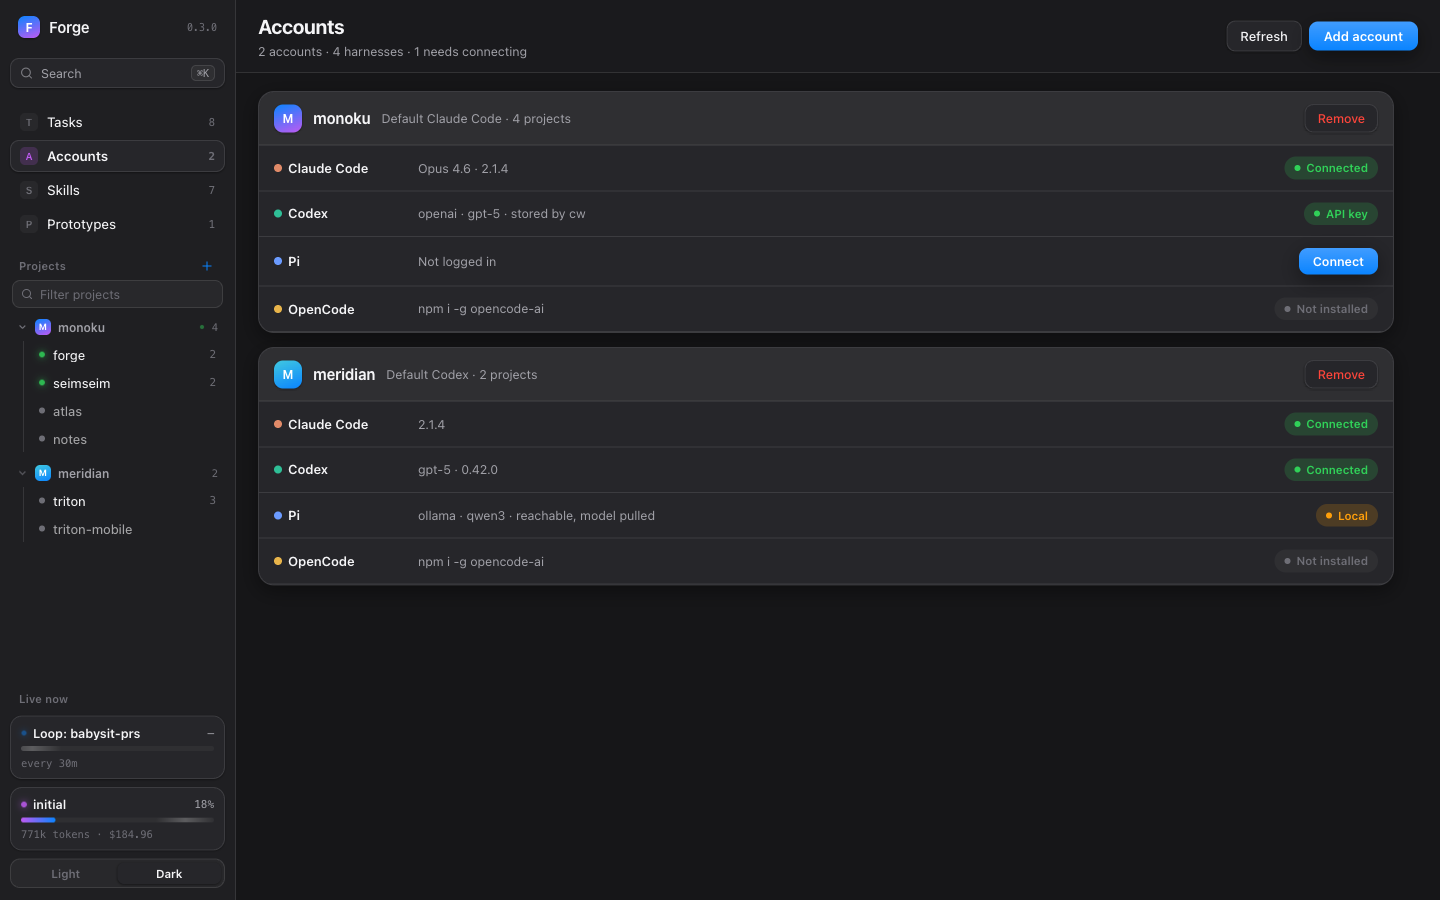
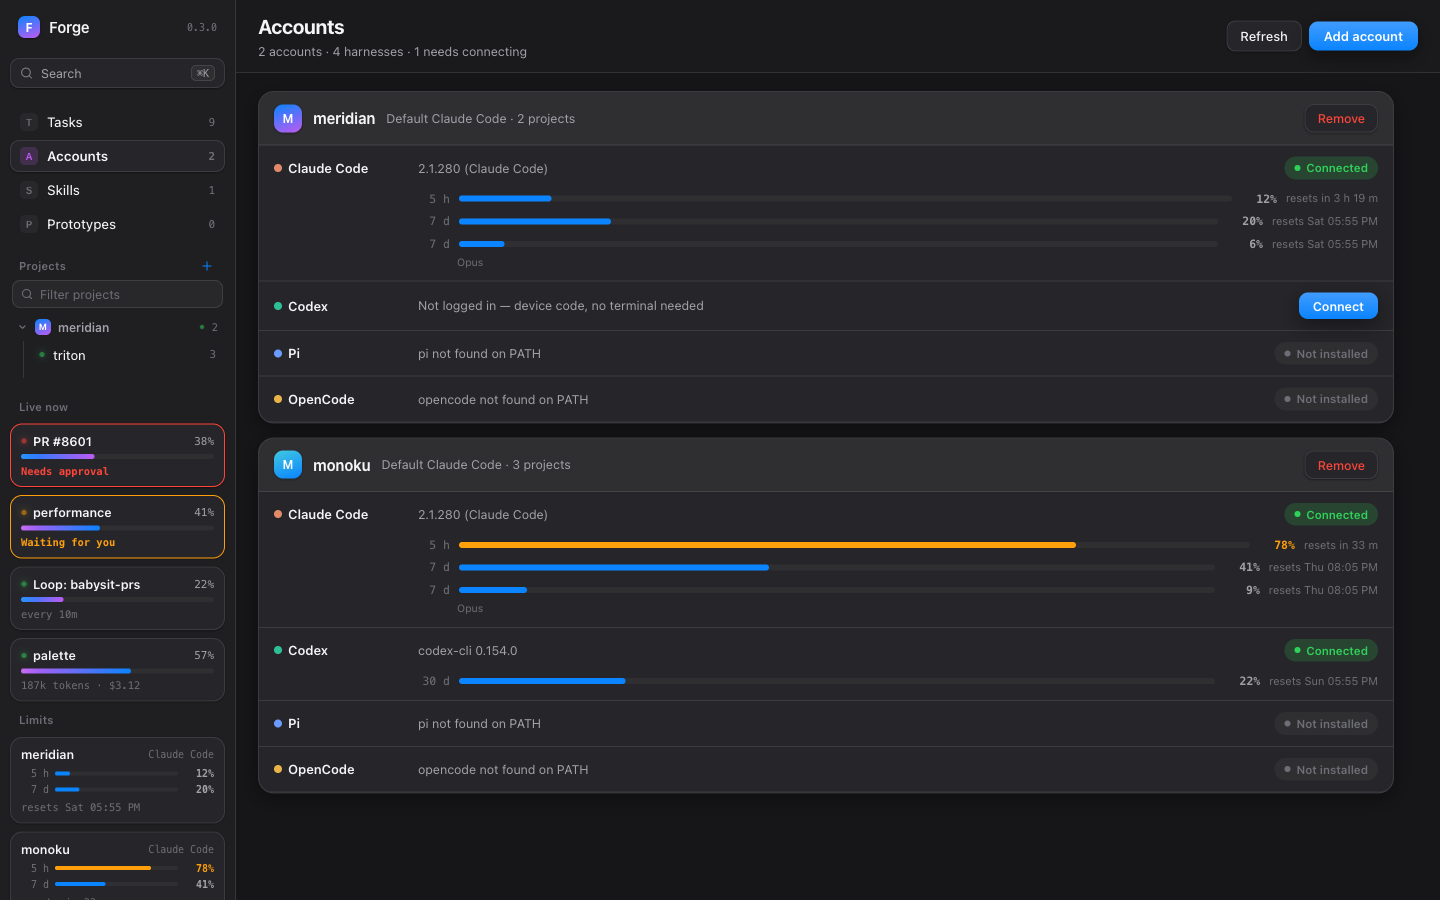
fix(site): real console screenshots for session states and usage limits
Replaces the hand-built mocks with screenshots of the console on demo
data: the task list with live sessions and limits in the sidebar, and
the accounts screen with each account's usage windows.

diff --git a/site/styles.css b/site/styles.css
@@ -358,47 +358,6 @@ section[id] { scroll-margin-top: 64px; }
 .keys span { color: var(--ink-3); }
 kbd { padding: 2px 8px; border-radius: 7px; background: var(--elev); border: 1px solid var(--hair); font-size: 11.5px; color: var(--ink); }
 
-/* session states mock */
-.mock { position: relative; padding: 18px; display: flex; flex-direction: column; gap: 14px; }
-.toast {
-  align-self: flex-end; display: flex; align-items: center; gap: 11px; width: min(300px, 100%);
-  padding: 11px 13px; border-radius: 14px; background: var(--glass); border: 1px solid var(--hair-2);
-  -webkit-backdrop-filter: blur(20px); backdrop-filter: blur(20px); box-shadow: var(--shadow-m);
-}
-.toast-icon { flex: none; width: 28px; height: 28px; border-radius: 8px; font-size: 14px; }
-.toast b { display: block; font-size: 12.5px; font-weight: 600; }
-.toast span:not(.mark-tile) { display: block; margin-top: 2px; font-size: 11.5px; color: var(--ink-2); }
-.live-list { display: flex; flex-direction: column; gap: 8px; }
-.feature .live-title { margin-top: 0; line-height: 1.45; display: flex; justify-content: space-between; font-family: var(--mono); font-size: 11px; color: var(--ink-3); padding: 0 2px; }
-.live-title span { color: var(--orange); }
-.live-row {
-  display: flex; align-items: center; gap: 11px; padding: 10px 12px; border-radius: 12px;
-  background: var(--card); border: 1px solid var(--hair); box-shadow: var(--shadow-s);
-}
-.live-name { flex: 1; min-width: 0; }
-.live-name b { display: block; font-size: 13px; font-weight: 600; }
-.live-name span { display: block; margin-top: 1px; font-family: var(--mono); font-size: 10.5px; color: var(--ink-3); overflow: hidden; text-overflow: ellipsis; white-space: nowrap; }
-.state {
-  flex: none; display: inline-flex; align-items: center; gap: 6px; padding: 3px 9px; border-radius: 99px;
-  font-size: 11px; font-weight: 500; color: var(--c); background: color-mix(in srgb, var(--c) 16%, transparent);
-}
-.state .dot { background: var(--c); }
-
-/* usage limits over the accounts screenshot */
-.limits-shot { position: relative; }
-.limits {
-  position: absolute; right: 14px; bottom: 14px; width: 200px;
-  padding: 11px 13px; border-radius: 14px; background: var(--card);
-  border: 1px solid var(--hair-2); box-shadow: var(--shadow-l);
-}
-.limits-head { display: flex; justify-content: space-between; align-items: baseline; }
-.limits-head b { font-size: 12.5px; font-weight: 600; }
-.limits-head span, .limits-reset { font-family: var(--mono); font-size: 10px; color: var(--ink-3); }
-.limit { margin-top: 7px; display: flex; align-items: center; gap: 8px; font-family: var(--mono); font-size: 10px; color: var(--ink-2); }
-.limit .meter { flex: 1; margin-top: 0; }
-.limit-pct { width: 28px; text-align: right; }
-.feature .limits-reset { margin-top: 8px; font-size: 10px; line-height: 1.45; color: var(--ink-3); }
-
 /* more features */
 .more { margin-top: 96px; }
 .grid { display: grid; grid-template-columns: repeat(auto-fit, minmax(min(280px, 100%), 1fr)); gap: 14px; }
@@ -493,8 +452,6 @@ kbd { padding: 2px 8px; border-radius: 7px; background: var(--elev); border: 1px
 @media (max-width: 640px) {
   .header-sep, .header-meta, .nav { display: none; }
   .session { right: 12px; }
-  .limits { position: static; width: auto; margin: 10px; box-shadow: var(--shadow-s); }
-  .live-name span { display: none; }
   .stair-row:nth-child(2), .stair-row:nth-child(3) { margin-left: 0; }
   .footer-copy { justify-content: flex-start; }
 }

diff --git a/site/index.html b/site/index.html
@@ -181,49 +181,14 @@
             <span class="pill"><span class="dot" style="background:var(--red)"></span>Needs approval</span>
           </div>
         </div>
-        <div class="feature-shot mock" aria-hidden="true">
-          <div class="toast">
-            <span class="mark-tile toast-icon">F</span>
-            <div>
-              <b>performance is waiting for you</b>
-              <span>triton · Codex</span>
-            </div>
-          </div>
-          <div class="live-list">
-            <p class="live-title">Live now <span>2 need you</span></p>
-            <div class="live-row">
-              <span class="tile c-blue">R</span>
-              <div class="live-name"><b>pr-8601</b><span>triton · review/pr-8601</span></div>
-              <span class="state" style="--c:var(--red)"><span class="dot"></span>Needs approval</span>
-            </div>
-            <div class="live-row">
-              <span class="tile c-orange">D</span>
-              <div class="live-name"><b>performance</b><span>triton · task/performance</span></div>
-              <span class="state" style="--c:var(--orange)"><span class="dot"></span>Waiting for you</span>
-            </div>
-            <div class="live-row">
-              <span class="tile c-purple">L</span>
-              <div class="live-name"><b>babysit</b><span>seimseim · loop/babysit</span></div>
-              <span class="state" style="--c:var(--green)"><span class="dot live"></span>Working</span>
-            </div>
-            <div class="live-row">
-              <span class="tile c-orange">D</span>
-              <div class="live-name"><b>initial</b><span>forge · task/initial</span></div>
-              <span class="state" style="--c:var(--green)"><span class="dot live"></span>Working</span>
-            </div>
-          </div>
+        <div class="feature-shot">
+          <img src="screenshots/session-states.png" width="1440" height="900" loading="lazy" alt="The task list with four live sessions in the sidebar: a review that needs approval and a task waiting for you at the top, two working below, and each account's usage limits." />
         </div>
       </article>
 
       <article class="feature flip lift">
-        <div class="feature-shot limits-shot">
-          <img src="screenshots/accounts.png" width="1440" height="900" loading="lazy" alt="The accounts screen: one card per account showing each harness as connected, API key, local model or a Connect button." />
-          <div class="limits" aria-hidden="true">
-            <div class="limits-head"><b>work</b><span>Claude Code</span></div>
-            <div class="limit"><span>5 h</span><div class="meter"><div class="meter-fill" style="width:87%;background:var(--orange)"></div></div><span class="limit-pct" style="color:var(--orange)">87%</span></div>
-            <div class="limit"><span>7 d</span><div class="meter"><div class="meter-fill" style="width:20%"></div></div><span class="limit-pct">20%</span></div>
-            <p class="limits-reset">resets in 30 m</p>
-          </div>
+        <div class="feature-shot">
+          <img src="screenshots/accounts.png" width="1440" height="900" loading="lazy" alt="The accounts screen: each harness per account as connected, not installed or a Connect button, with its 5-hour, weekly and monthly usage windows and when they reset." />
         </div>
         <div class="feature-text">
           <span class="feature-num">04</span>
